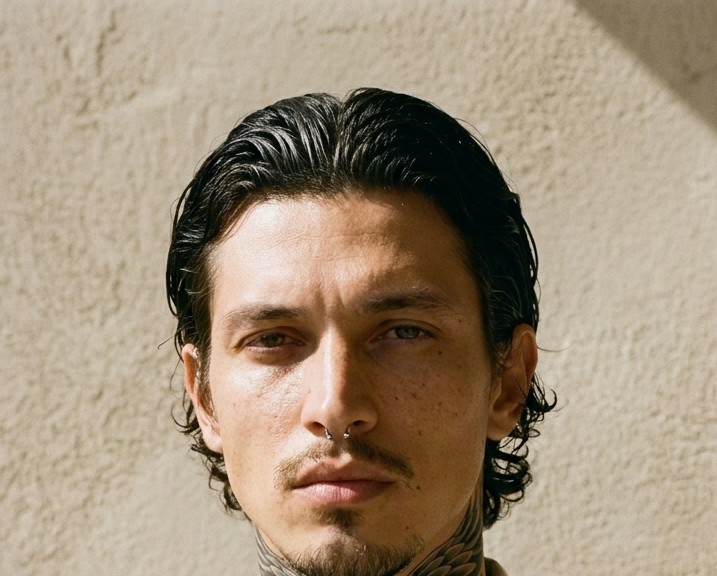
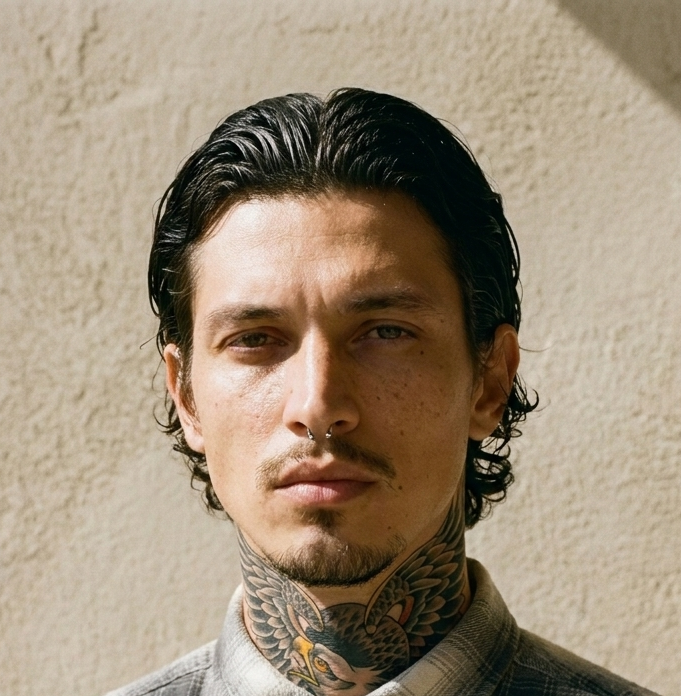
fix(lucas): septum-visible face-ref + explicit tattoo/piercing NG
face-ref.png was cropped from polaroid-front too tightly — the septum
piercing wasn't visible in the reference, causing Gemini to drop it
during generation. Regenerated from identity-anchor-v3 with a wider
vertical crop (0-58%) that keeps septum + eagle neck tattoo prominent.

Also hardened LUCAS vibe with explicit gates:
  PIERCINGS: septum only, MUST be rendered on every front shot
  TATTOOS: neck eagle (right side) only, ZERO ink elsewhere

This stops the generator from hallucinating knuckle / chest / ear ink
that previous BEDWIN portfolio imagery tends to associate with the
character.

diff --git a/data/agencyModels.ts b/data/agencyModels.ts
@@ -134,7 +134,7 @@ export const AGENCY_MODELS: AgencyModel[] = [
   { id: 'men-asia-01', name: 'SHOTA', category: 'men_asia', height: 183, measurements: { bust: 88, waist: 70, hips: 88 }, hair: 'Black, medium, natural', eyes: 'Dark brown, monolid', vibe: 'Japanese minimalist, Issey Miyake / HOMME PLISSÉ', ...m('men-asia-01') },
   { id: 'men-asia-02', name: 'JIHO', category: 'men_asia', height: 182, measurements: { bust: 87, waist: 69, hips: 87 }, hair: 'Black, medium-long, soft', eyes: 'Dark brown, double lid', vibe: 'Androgynous editorial, Raf Simons / Loewe', ...m('men-asia-02') },
   { id: 'men-street-01', name: 'RYO', category: 'men_asia', height: 181, measurements: { bust: 88, waist: 70, hips: 88 }, hair: 'Black, medium, slight wave', eyes: 'Dark brown, hooded', vibe: 'Tokyo street culture, WTAPS / WACKO MARIA / BEDWIN', ...m('men-street-01') },
-  { id: 'men-street-02', name: 'LUCAS MORI', category: 'men_asia', height: 185, measurements: { bust: 110, waist: 80, hips: 95 }, hair: 'Dark brown, medium, wet slicked-back center-part with subtle natural wave', eyes: 'Hazel-brown with soft epicanthic fold', vibe: 'BEDWIN 26SS lookbook — mixed Brazilian-Japanese nikkei, athletic V-shape tall 185cm with EDITORIAL FASHION MODEL PROPORTION (**minimum 8-heads tall, target 8.5 to 9 heads tall — Watanabe standard "8頭身未満はモデルじゃない"**, small head, long limbs), LONG LEGS (crotch at 50% body height, inseam ~90-92cm, legs appear extra long in full-body shots), LUXURY SWAN-LIKE NECK (neck width = 0.62-0.70 of face width, circumference 34-36cm target, long visible neck column ≥1/2 head-height, flat sloping trapezius, shoulders drop away, NO fighter/MMA/bull-neck — Prada/Saint Laurent/Lemaire editorial standard) with eagle tattoo ONLY on the RIGHT LATERAL SIDE as FLAT GRAPHIC INK (front of throat stays CLEAN natural skin, tattoo does NOT wrap to front/left/Adam\\\'s apple, does NOT add visual bulk to the neck — slim neck silhouette visible through ink). Pants MUST sit at the NATURAL WAIST (mid-rise) — NOT low-rise, NOT hip-sit, NOT sagging (hip-sit/low-rise makes legs look short which is forbidden). Shot with 50mm+ focal length (50-100mm range, never wide-angle). Americana workwear, Watanabe-signed exclusive', images: { main: '/agency-models/men-street-02/look-04.png', polaroid: '/agency-models/men-street-02/polaroid-front.png', beauty: '/agency-models/men-street-02/look-03.png', editorial: '/agency-models/men-street-02/editorial.png' }, portfolio: ['/agency-models/men-street-02/look-01.png', '/agency-models/men-street-02/look-02.png', '/agency-models/men-street-02/beauty.png', '/agency-models/men-street-02/skate-01.png', '/agency-models/men-street-02/campaign.png', '/agency-models/men-street-02/v3-muse-portrait.png'], studioRefs: ['/agency-models/men-street-02/face-ref.png'] },
+  { id: 'men-street-02', name: 'LUCAS MORI', category: 'men_asia', height: 185, measurements: { bust: 110, waist: 80, hips: 95 }, hair: 'Dark brown, medium, wet slicked-back center-part with subtle natural wave', eyes: 'Hazel-brown with soft epicanthic fold', vibe: 'BEDWIN 26SS lookbook — mixed Brazilian-Japanese nikkei, athletic V-shape tall 185cm with EDITORIAL FASHION MODEL PROPORTION (**minimum 8-heads tall, target 8.5 to 9 heads tall — Watanabe standard "8頭身未満はモデルじゃない"**, small head, long limbs), LONG LEGS (crotch at 50% body height, inseam ~90-92cm, legs appear extra long in full-body shots), LUXURY SWAN-LIKE NECK (neck width = 0.62-0.70 of face width, circumference 34-36cm target, long visible neck column ≥1/2 head-height, flat sloping trapezius, shoulders drop away, NO fighter/MMA/bull-neck — Prada/Saint Laurent/Lemaire editorial standard). **PIERCINGS: small silver SEPTUM (nose ring) ONLY — MUST be rendered visible on every front-facing shot. NO ear piercings, NO earrings, NO hoops, NO studs, NO chains, NO rings, NO watch.** **TATTOOS: ONLY the Americana eagle on the RIGHT LATERAL SIDE OF THE NECK as FLAT GRAPHIC INK — front of throat stays CLEAN natural skin, tattoo does NOT wrap to front/left/Adam\\\'s apple, does NOT add visual bulk. ZERO tattoos anywhere else on the body — hands, fingers, knuckles, wrists, forearms, chest, clavicle, shoulders, back must all be CLEAN SKIN with no ink of any kind.** Pants MUST sit at the NATURAL WAIST (mid-rise) — NOT low-rise, NOT hip-sit, NOT sagging (hip-sit/low-rise makes legs look short which is forbidden). Shot with 50mm+ focal length (50-100mm range, never wide-angle). Americana workwear, Watanabe-signed exclusive', images: { main: '/agency-models/men-street-02/look-04.png', polaroid: '/agency-models/men-street-02/polaroid-front.png', beauty: '/agency-models/men-street-02/look-03.png', editorial: '/agency-models/men-street-02/editorial.png' }, portfolio: ['/agency-models/men-street-02/look-01.png', '/agency-models/men-street-02/look-02.png', '/agency-models/men-street-02/beauty.png', '/agency-models/men-street-02/skate-01.png', '/agency-models/men-street-02/campaign.png', '/agency-models/men-street-02/v3-muse-portrait.png'], studioRefs: ['/agency-models/men-street-02/face-ref.png'] },
   { id: 'influencer-girl-01', name: 'RINKA', category: 'influencer', height: 165, measurements: { bust: 78, waist: 58, hips: 84 }, hair: 'Pink-ash, shoulder length', eyes: 'Dark brown', vibe: 'Tokyo street style, Harajuku creative', ...m('influencer-girl-01', { editorial: '/agency-models/influencer-girl-01/v3-campaign.png' }) },
   { id: 'influencer-boy-01', name: 'KAI', category: 'influencer', height: 178, measurements: { bust: 88, waist: 72, hips: 88 }, hair: 'Dark brown, curly-wavy', eyes: 'Light brown', vibe: 'Tokyo × Byron Bay, lifestyle creative', ...m('influencer-boy-01') },
 
